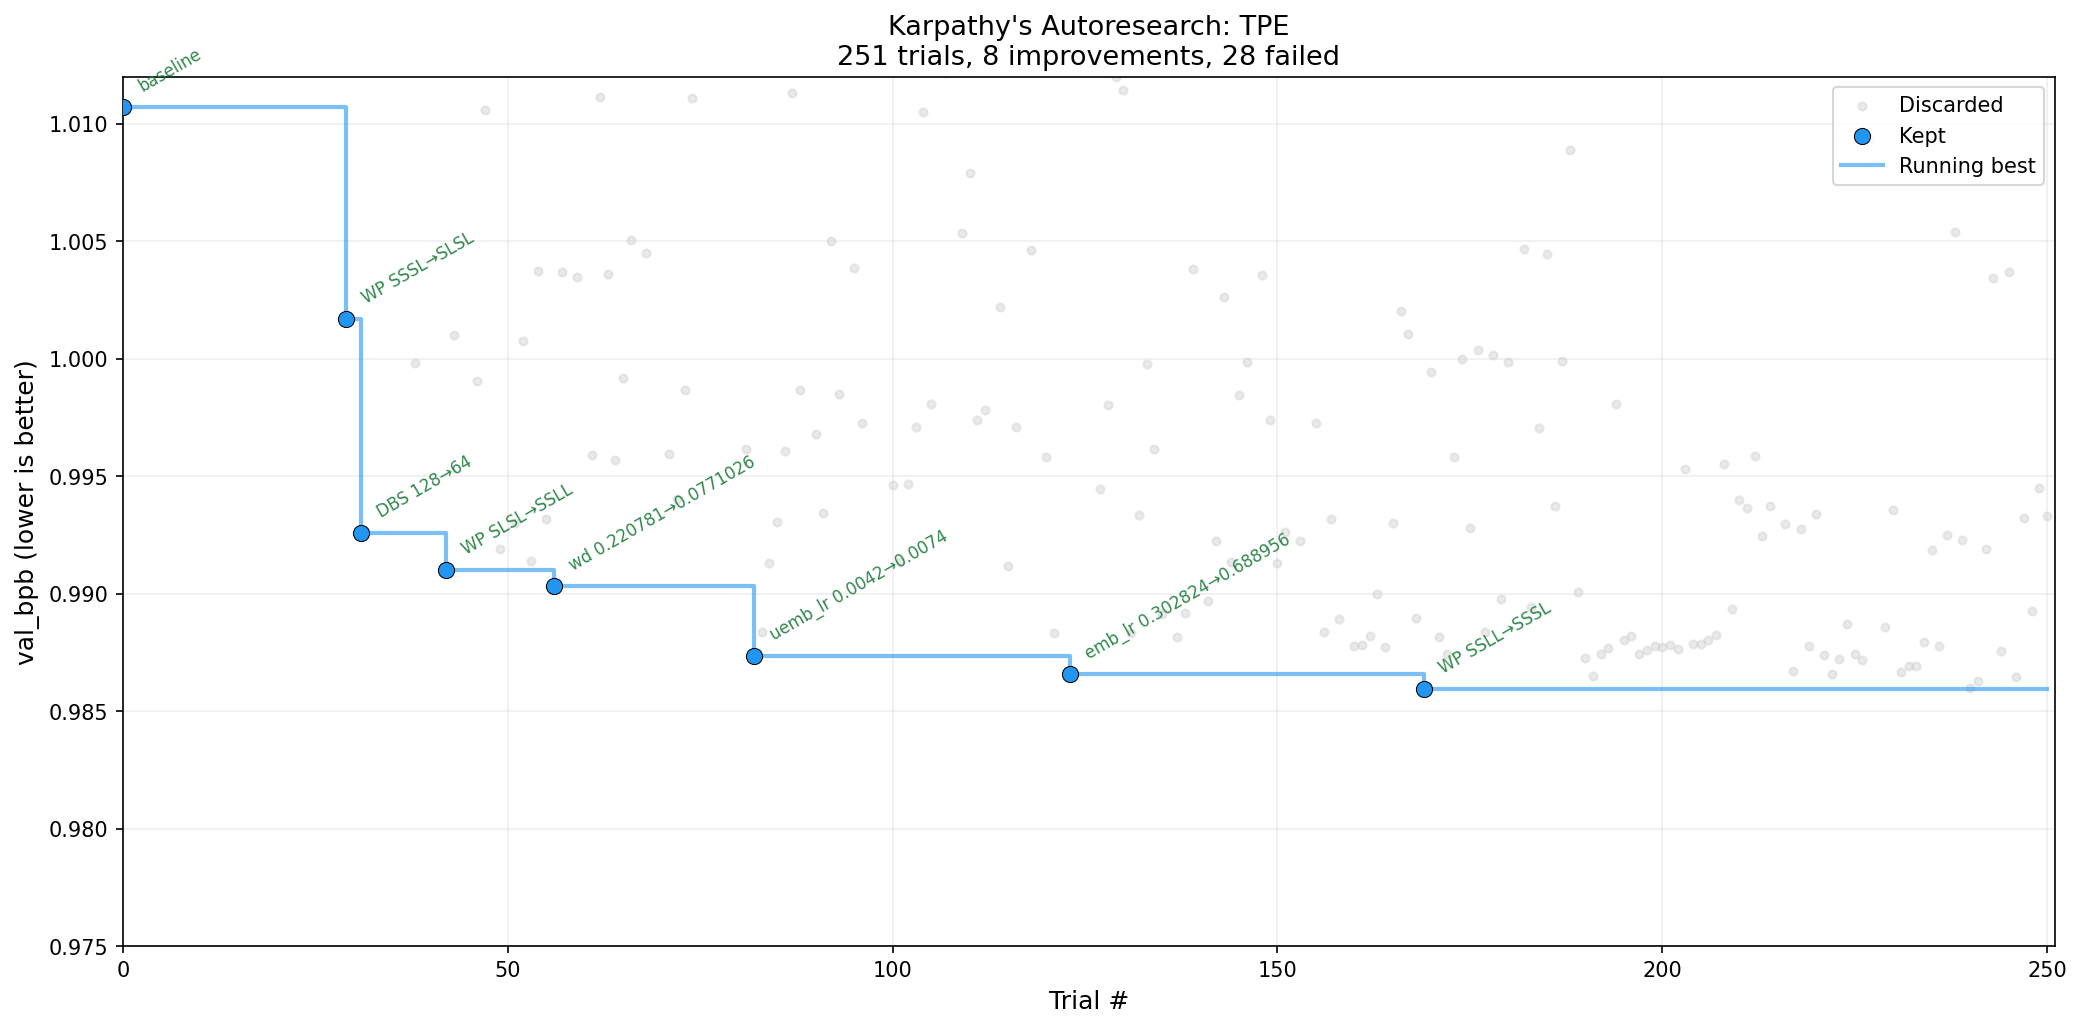
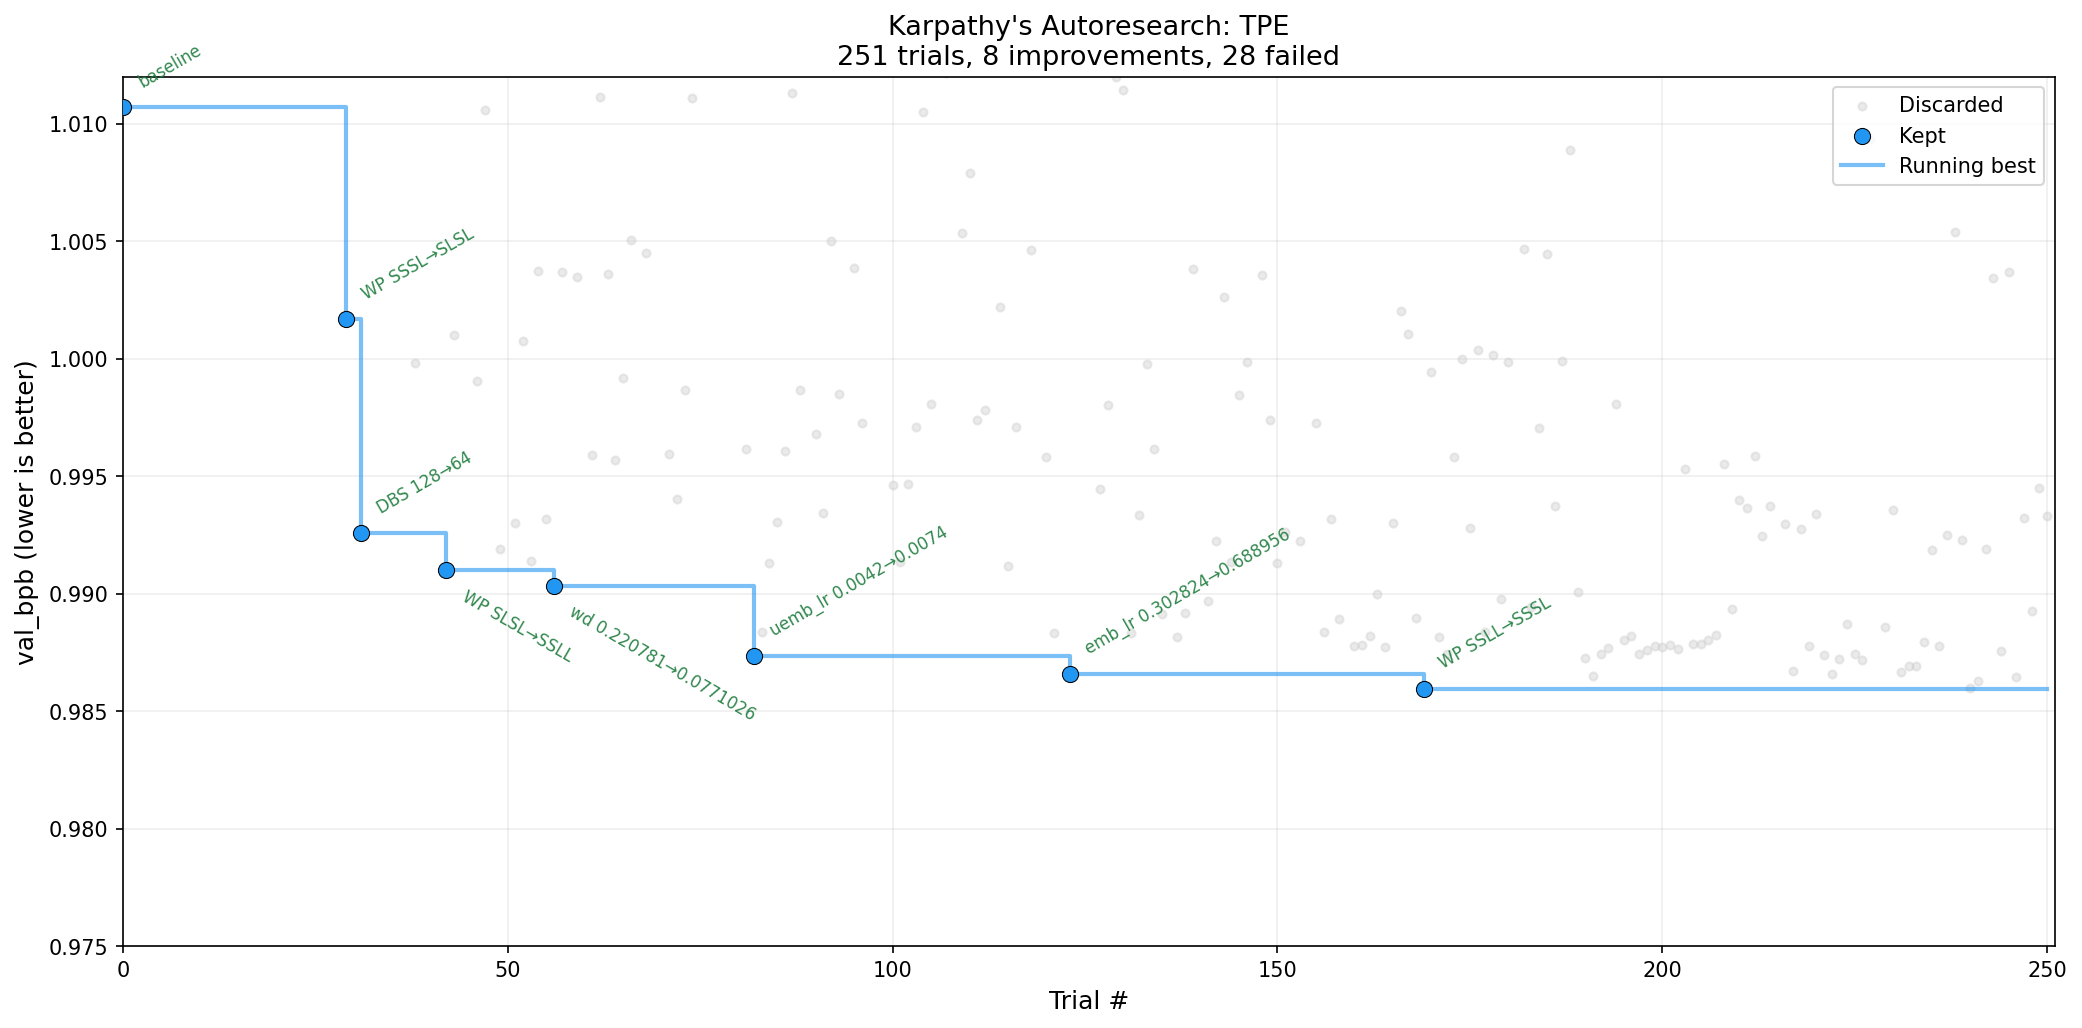
Add Karpathy Agent (Code) to incumbent traces, fix annotation collisions, refine intro

diff --git a/scripts/plot_convergence.py b/scripts/plot_convergence.py
@@ -275,7 +275,8 @@ def plot_progress_single(
         ax.step(stair_x, stair_y, where="post", color=color,
                 linewidth=2, alpha=0.6, zorder=3, label="Running best")
 
-    # Annotate incumbents — Karpathy style
+    # Annotate incumbents with collision avoidance
+    placed = []
     prev_config = None
     for idx, (trial_i, val, config) in enumerate(incumbents):
         if prev_config is None:
@@ -285,10 +286,22 @@ def plot_progress_single(
             if len(label) > 45:
                 label = label[:42] + "..."
         prev_config = config
+
+        dy, va, rot = 8, "bottom", 30
+        x_range = max(len(trials), 1)
+        for px, py, pdir in placed[-5:]:
+            x_close = abs(trial_i - px) < 0.10 * x_range
+            y_close = abs(val - py) < 0.004
+            if x_close and y_close and pdir == "above":
+                dy, va, rot = -8, "top", -30
+                break
+
+        direction = "above" if dy > 0 else "below"
+        placed.append((trial_i, val, direction))
         ax.annotate(
-            label, xy=(trial_i, val), xytext=(6, 6),
+            label, xy=(trial_i, val), xytext=(6, dy),
             textcoords="offset points", fontsize=8, color="#1a7a3a",
-            alpha=0.9, rotation=30, ha="left", va="bottom",
+            alpha=0.9, rotation=rot, ha="left", va=va,
             annotation_clip=True,
         )
 
@@ -382,6 +395,8 @@ def plot_progress_subplot(ax, bench_dir, backend_name, display_name, color, desc
         for d in descriptions:
             desc_map[d["trial"]] = d["description"]
 
+    # Annotate with collision avoidance: alternate above/below when points are close
+    placed = []  # list of (x_data, y_data, direction) for collision checks
     prev_config = None
     for idx, (trial_i, val, config) in enumerate(incumbents):
         if trial_i in desc_map:
@@ -393,10 +408,24 @@ def plot_progress_subplot(ax, bench_dir, backend_name, display_name, color, desc
         if len(label) > 35:
             label = label[:32] + "..."
         prev_config = config
+
+        # Default: above-right
+        dy, va, rot = 8, "bottom", 30
+        # Check collision with recent annotations (within 15% x-range and close y)
+        x_range = max(len(trials), 1)
+        for px, py, pdir in placed[-5:]:
+            x_close = abs(trial_i - px) < 0.10 * x_range
+            y_close = abs(val - py) < 0.004
+            if x_close and y_close and pdir == "above":
+                dy, va, rot = -8, "top", -30
+                break
+
+        direction = "above" if dy > 0 else "below"
+        placed.append((trial_i, val, direction))
         ax.annotate(
-            label, xy=(trial_i, val), xytext=(6, 6),
+            label, xy=(trial_i, val), xytext=(6, dy),
             textcoords="offset points", fontsize=5.5, color="#1a7a3a",
-            alpha=0.9, rotation=30, ha="left", va="bottom",
+            alpha=0.9, rotation=rot, ha="left", va=va,
             annotation_clip=True,
         )
 
@@ -424,18 +453,27 @@ def plot_progress_combined(results_dir: Path, output_path: Path):
         ("centaur_Qwen3_5_27B", "Centaur [27B]", "#D32F2F"),
         ("llambo_original_Qwen3_5_27B_nothink", "LLAMBO (Paper) [27B]", "#E91E63"),
         ("llm_greedy_Qwen3_5_27B_nothink", "Karpathy Agent (14 HPs) [27B]", "#FF9800"),
+        ("karpathy_agent_Qwen3_5_27B", "Karpathy Agent (Code) [27B]", "#4CAF50"),
         ("random", "Random", "#607D8B"),
     ]
 
-    fig, axes = plt.subplots(2, 3, figsize=(18, 10))
+    n_backends = len(backends)
+    ncols = 4
+    nrows = (n_backends + ncols - 1) // ncols
+    fig, axes = plt.subplots(nrows, ncols, figsize=(22, 5 * nrows))
+    axes_flat = axes.flatten()
 
     for idx, (backend, name, color) in enumerate(backends):
-        row, col = divmod(idx, 3)
         descs = all_descriptions.get(backend)
-        plot_progress_subplot(axes[row, col], bench_dir, backend, name, color, descriptions=descs)
+        plot_progress_subplot(axes_flat[idx], bench_dir, backend, name, color, descriptions=descs)
 
-    for ax in axes[1, :]:
-        ax.set_xlabel("Trial #", fontsize=10)
+    # Hide unused subplots
+    for idx in range(n_backends, len(axes_flat)):
+        axes_flat[idx].set_visible(False)
+
+    for ax in axes[-1, :]:
+        if ax.get_visible():
+            ax.set_xlabel("Trial #", fontsize=10)
     for ax in axes[:, 0]:
         ax.set_ylabel("val_bpb", fontsize=10)
 

diff --git a/README.md b/README.md
@@ -1,6 +1,6 @@
 # autoresearch-automl
 
-Systematic benchmark of classical (TPE, CMA-ES, SMAC), LLM-based ([LLAMBO](https://arxiv.org/abs/2402.03921), [Karpathy Agent](https://github.com/karpathy/autoresearch)), and hybrid (Centaur) HPO on a real GPU training task. Motivated by [Shwartz-Ziv's finding](https://www.linkedin.com/posts/ravid-shwartz-ziv-8bb18761_do-llm-coding-agents-fool-us-karpathys-activity-7437556522240536576-ygrQ) that classical HPO already beats LLM agents — we test whether that holds under fair conditions.
+Karpathy's [autoresearch](https://github.com/karpathy/autoresearch) lets an LLM agent edit training code through trial and error — no fixed search space, just code diffs. [Shwartz-Ziv showed](https://www.linkedin.com/posts/ravid-shwartz-ziv-8bb18761_do-llm-coding-agents-fool-us-karpathys-activity-7437556522240536576-ygrQ) that classical AutoML (TPE + expert HPs) already beats it. We benchmark classical HPO methods (TPE, CMA-ES, SMAC), LLM-based HPO ([LLAMBO](https://arxiv.org/abs/2402.03921), Karpathy Agent), and a hybrid (Centaur) — all under fair conditions — to find out which approach actually wins.
 
 ## Setup
 
